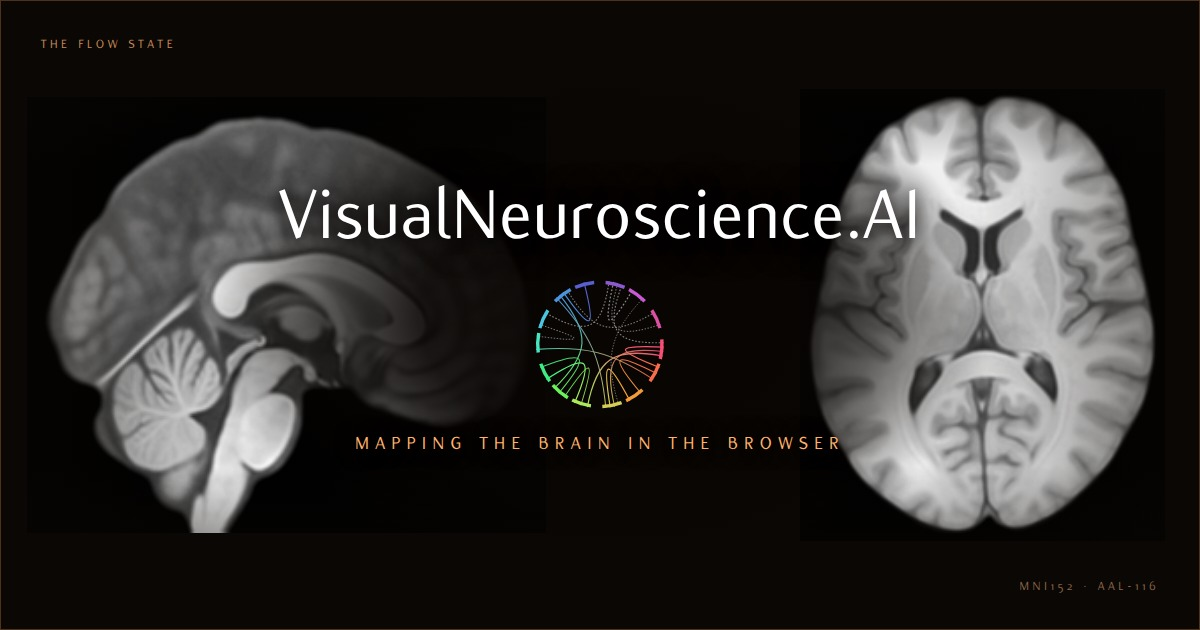
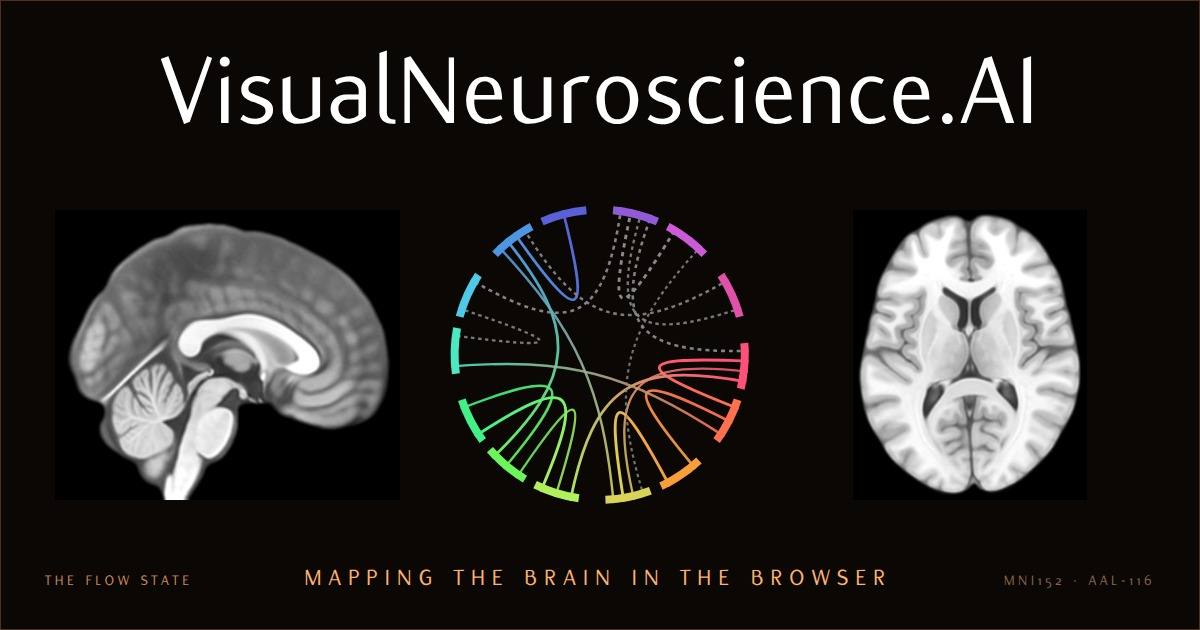
Lay the card out in three bands, and let the scans be seen
The card had the name, the mark and the strapline stacked in the middle,
over a dark plate that existed only to keep the type legible against the
scans running underneath it. The plate was covering the very thing the
card is meant to show.

It is relaid in three bands instead. The name goes across the top at
104px, up from 76. The mark and the two sections run through the middle,
the ring grown from 132 to 308 across, the scans cut down from around
440 tall to 290 and set either side of it so each sits whole inside the
frame with nothing laid over it. The strapline takes the foot at 24px,
with what state the ring is drawing on its left and what the scans are
cut from on its right — one line, read across.

The plate and the washes go with the old arrangement. Nothing now sits
between the reader and the scans.

diff --git a/site/share.html b/site/share.html
@@ -24,72 +24,56 @@ body{
 }
 
 /* ── the card ───────────────────────────────────────────────────────────
-   Fixed at 1200x630, the size link previews are cut to. Everything is laid
-   out in absolute pixels rather than viewport units so the rendered PNG and
-   the page agree exactly. */
+   Fixed at 1200x630, the size link previews are cut to. Three bands: the
+   name across the top, the mark and the two sections through the middle,
+   and the strapline along the foot. Everything is laid out in absolute
+   pixels rather than viewport units so the rendered JPEG and the page
+   agree exactly. */
 .card{
   position:relative; width:1200px; height:630px; flex:none;
   background:#0A0705; overflow:hidden;
   border:1px solid rgba(255,160,80,.28);
 }
 
-/* the scans: the side section on the left and the plan view on the right,
-   each held clear of the card's edge so the whole brain is in frame rather
-   than running off it */
-.scans{ position:absolute; inset:0; }
+/* the middle band, between the name and the strapline */
+.card{ --band:354px; }
+
+/* the scans: the side section on the left, the plan view on the right,
+   each sized to sit whole inside the frame and clear of the mark, with
+   nothing laid over them */
 .scans img{
-  position:absolute; top:50%; transform:translateY(-50%);
-  width:auto; display:block;
-  opacity:.95; filter:contrast(1.06);
+  position:absolute; top:var(--band); transform:translateY(-50%);
+  height:290px; width:auto; display:block;
+  filter:contrast(1.06);
 }
-.scans .sag{ left:26px; height:436px; }
-.scans .ax{ right:34px; height:452px; }
+.scans .sag{ left:54px; }
+.scans .ax{ right:112px; }
 
-/* a warm wash and a vignette, so the middle stays legible */
-.wash{
-  position:absolute; inset:0;
-  background:
-    linear-gradient(90deg, rgba(10,7,5,.55) 0%, rgba(10,7,5,0) 18%, rgba(10,7,5,0) 82%, rgba(10,7,5,.55) 100%),
-    linear-gradient(0deg, rgba(10,7,5,.88) 0%, rgba(10,7,5,0) 26%, rgba(10,7,5,0) 74%, rgba(10,7,5,.82) 100%);
+/* the mark, through the centre of that band */
+.ring{
+  position:absolute; left:50%; top:var(--band); transform:translate(-50%,-50%);
+  width:308px; height:308px;
 }
+.ring svg{ width:100%; height:100%; display:block; }
 
-/* the plate the name sits on: soft-edged, so it reads as a wash over the
-   scans rather than a panel laid on top of them */
-.plate{
-  position:absolute; left:50%; top:50%; transform:translate(-50%,-50%);
-  width:790px; height:520px; pointer-events:none;
-  background:radial-gradient(50% 50% at 50% 50%,
-    rgba(8,5,3,.95) 0%, rgba(8,5,3,.9) 46%, rgba(8,5,3,.62) 70%, rgba(8,5,3,0) 100%);
-}
-
-/* the name, the mark beneath it, and the line under both */
-.mark{
-  position:absolute; left:50%; top:50%; transform:translate(-50%,-50%);
-  text-align:center; width:820px;
-}
-.mark .word{
+/* the name across the top */
+.word{
+  position:absolute; left:0; right:0; top:38px; text-align:center;
   font-family:'Flux','Afacad Flux',sans-serif; font-weight:500;
-  font-size:76px; line-height:1; letter-spacing:.01em; color:#FFFFFF;
-  text-shadow:0 0 40px rgba(8,5,3,.98), 0 0 16px rgba(8,5,3,.95);
-}
-.mark .ring{
-  width:132px; height:132px; margin:26px auto 22px; opacity:.98;
-}
-.mark .ring svg{ width:100%; height:100%; display:block; }
-.mark .strap{
-  font-family:'Flux','Afacad Flux',sans-serif; font-weight:500;
-  font-size:19px; letter-spacing:.34em; text-transform:uppercase;
-  color:#FFB26B;
-  text-shadow:0 0 22px rgba(8,5,3,.98);
+  font-size:104px; line-height:1; letter-spacing:.01em; color:#FFFFFF;
 }
 
-/* corner marks, so the card reads as a plate rather than a screenshot */
-.corner{
-  position:absolute; font-family:'Flux','Afacad Flux',sans-serif; font-weight:500;
-  font-size:13px; letter-spacing:.28em; text-transform:uppercase; color:#C98A56;
+/* the foot: what state the ring is showing, the strapline, what it is
+   drawn from — one line, read left to right */
+.footline{
+  position:absolute; left:44px; right:44px; bottom:38px;
+  display:flex; align-items:baseline; justify-content:space-between; gap:20px;
+  font-family:'Flux','Afacad Flux',sans-serif; font-weight:500;
+  text-transform:uppercase; white-space:nowrap;
 }
-.corner.tl{ left:40px; top:36px; }
-.corner.br{ right:40px; bottom:36px; color:#8A6547; }
+.footline .side{ font-size:15px; letter-spacing:.24em; color:#C98A56; }
+.footline .side.quiet{ color:#8A6547; }
+.footline .strap{ font-size:24px; letter-spacing:.3em; color:#FFB26B; }
 
 .note{
   font-family:'Newsreader',Georgia,serif; font-style:italic;
@@ -109,13 +93,8 @@ body{
     <img class="sag" src="assets/social/sagittal.png" alt="" width="256" height="215">
     <img class="ax" src="assets/social/axial.png" alt="" width="207" height="256">
   </div>
-  <div class="wash"></div>
 
-  <div class="plate"></div>
-
-  <div class="mark">
-    <div class="word">VisualNeuroscience.AI</div>
-    <div class="ring"><svg xmlns="http://www.w3.org/2000/svg" viewBox="110 110 501 501" role="img" aria-label="VisualNeuroscience">
+  <div class="ring"><svg xmlns="http://www.w3.org/2000/svg" viewBox="110 110 501 501" role="img" aria-label="VisualNeuroscience">
 <title>VisualNeuroscience</title>
 <defs>
 <linearGradient id="lg0" gradientUnits="userSpaceOnUse" x1="602.27" y1="370.58" x2="586.06" y2="447.76"><stop offset="0%" stop-color="#FF507A"/><stop offset="100%" stop-color="#FF704E"/></linearGradient>
@@ -167,11 +146,14 @@ body{
 <path d="M189.79,196.53 A236.0,236.0 0 0 1 249.26,151.60" stroke="#4E95E4" stroke-width="13.0"/>
 <path d="M266.11,143.48 A236.0,236.0 0 0 1 338.32,125.00" stroke="#5A61D8" stroke-width="13.0"/>
 </g></svg></div>
-    <div class="strap">Mapping the brain in the browser</div>
-  </div>
 
-  <div class="corner tl">The Flow State</div>
-  <div class="corner br">MNI152 &middot; AAL-116</div>
+  <div class="word">VisualNeuroscience.AI</div>
+
+  <div class="footline">
+    <span class="side">The Flow State</span>
+    <span class="strap">Mapping the brain in the browser</span>
+    <span class="side quiet">MNI152 &middot; AAL-116</span>
+  </div>
 </div>
 
 <p class="note">The sharing card, at its true size of <b>1200&thinsp;&times;&thinsp;630</b> — the ratio link previews crop to. The scans are real slices of the MNI152 template the site ships, cut by <b>scripts/make_social.py</b> and put under the standard greyscale; the ring is the flow state as the Network Atlas draws it. Rendered to <b>assets/social-card.jpg</b>, which every page points at for <b>og:image</b>.</p>
